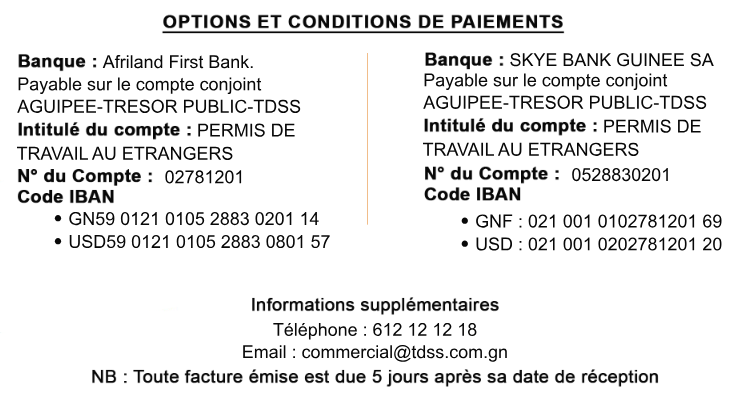
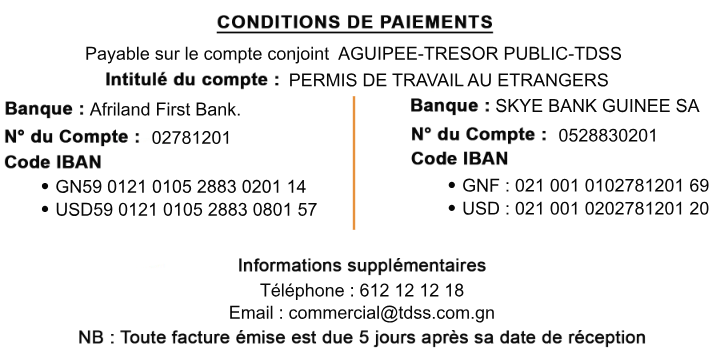
add another update in the invoice pdf

Changed region(s): [[0.0, 0.1236, 1.0, 0.6489], [0.0919, 0.7107, 0.9192, 0.9888], [0.2145, 0.0309, 0.766, 0.0927]]

diff --git a/apps/paiement/printviews.py b/apps/paiement/printviews.py
@@ -299,7 +299,7 @@ def bill_receipt_view(request, bill_id):
     # pdf.drawImage('apps/static/assets/img/brand/logo.jpg', 60, 750, 100, 80, showBoundary=False)
     pdf.drawImage('apps/static/assets/img/bill/header_aguipee_tdss.png', 0, 730, A4[0], 100, showBoundary=False)
     pdf.drawImage('apps/static/assets/img/bill/footer_aguipee_tdss.png', 0, 0, A4[0], 75, showBoundary=False)
-    pdf.drawImage('apps/static/assets/img/bill/conditions_banque.png', 95, 110, 400, 190, showBoundary=False)
+    pdf.drawImage('apps/static/assets/img/bill/conditions_banque.png', 95, 170, 400, 190, showBoundary=False)
     # pdf.line(50, 750, 550, 750)
     pdf.setFontSize(20, leading=None)
     pdf.drawString(220, 700, f"Facture N° 00{facture.id}/{date.format('Y')}")
@@ -377,7 +377,7 @@ def bill_receipt_view(request, bill_id):
     img = qr.make_image()
     img.save('staticfiles/bill_qr.png')
     
-    pdf.drawImage('staticfiles/bill_qr.png', 60, 370, 70, 70, showBoundary=False)
+    pdf.drawImage('staticfiles/bill_qr.png', 60, 390, 70, 70, showBoundary=False)
 
     pdf.setFontSize(14, leading=None)
     pdf.drawString(430, 440, f"La Direction")
